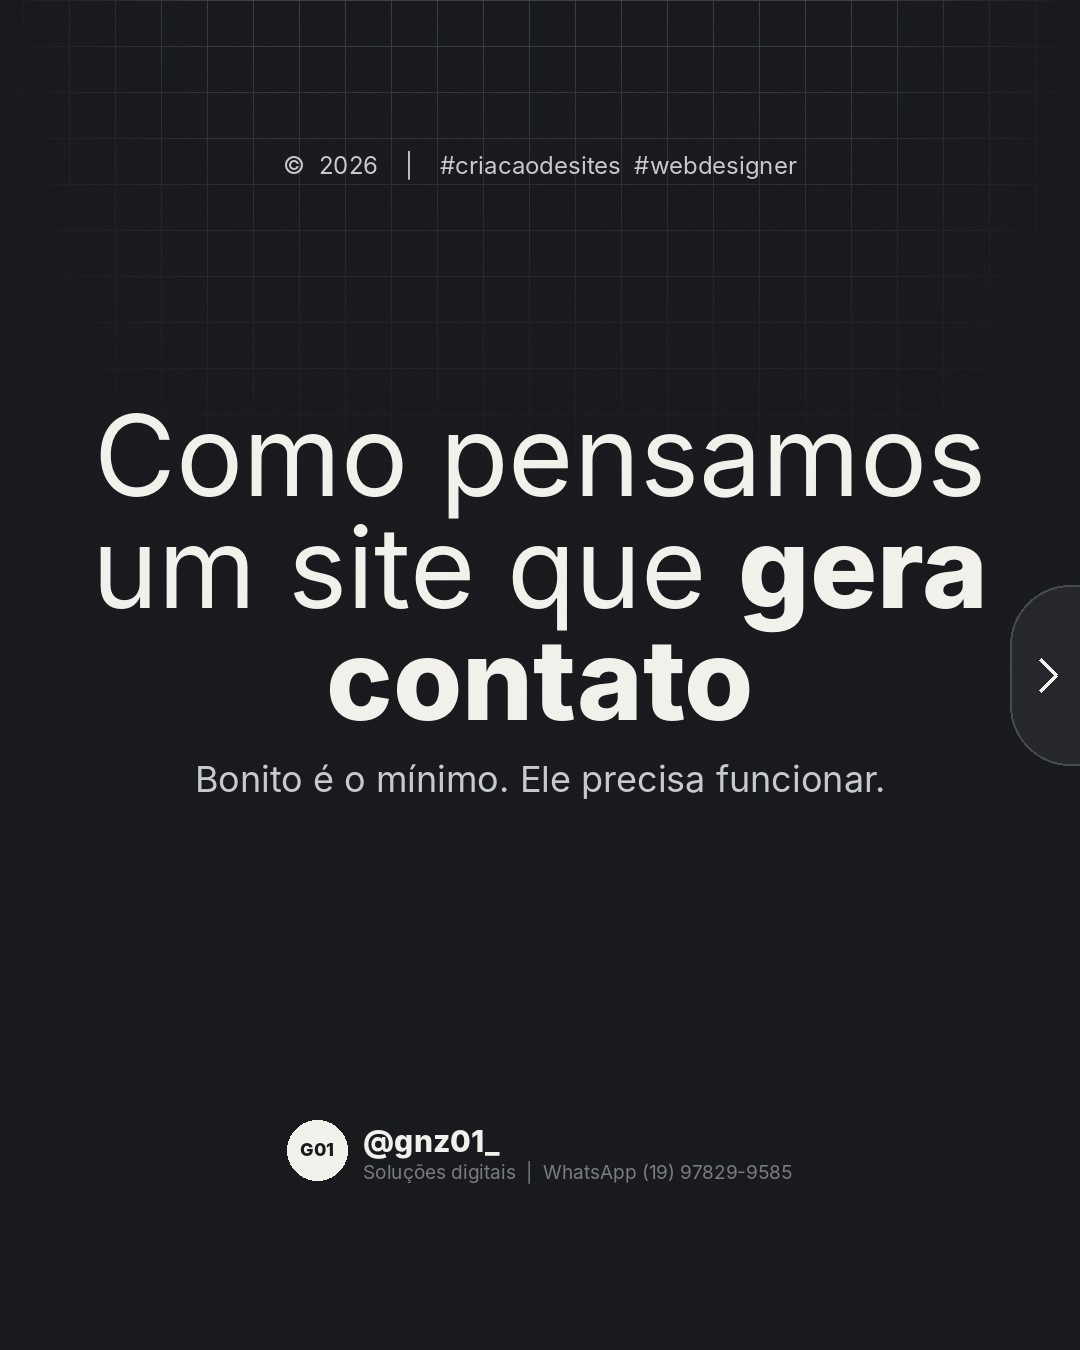
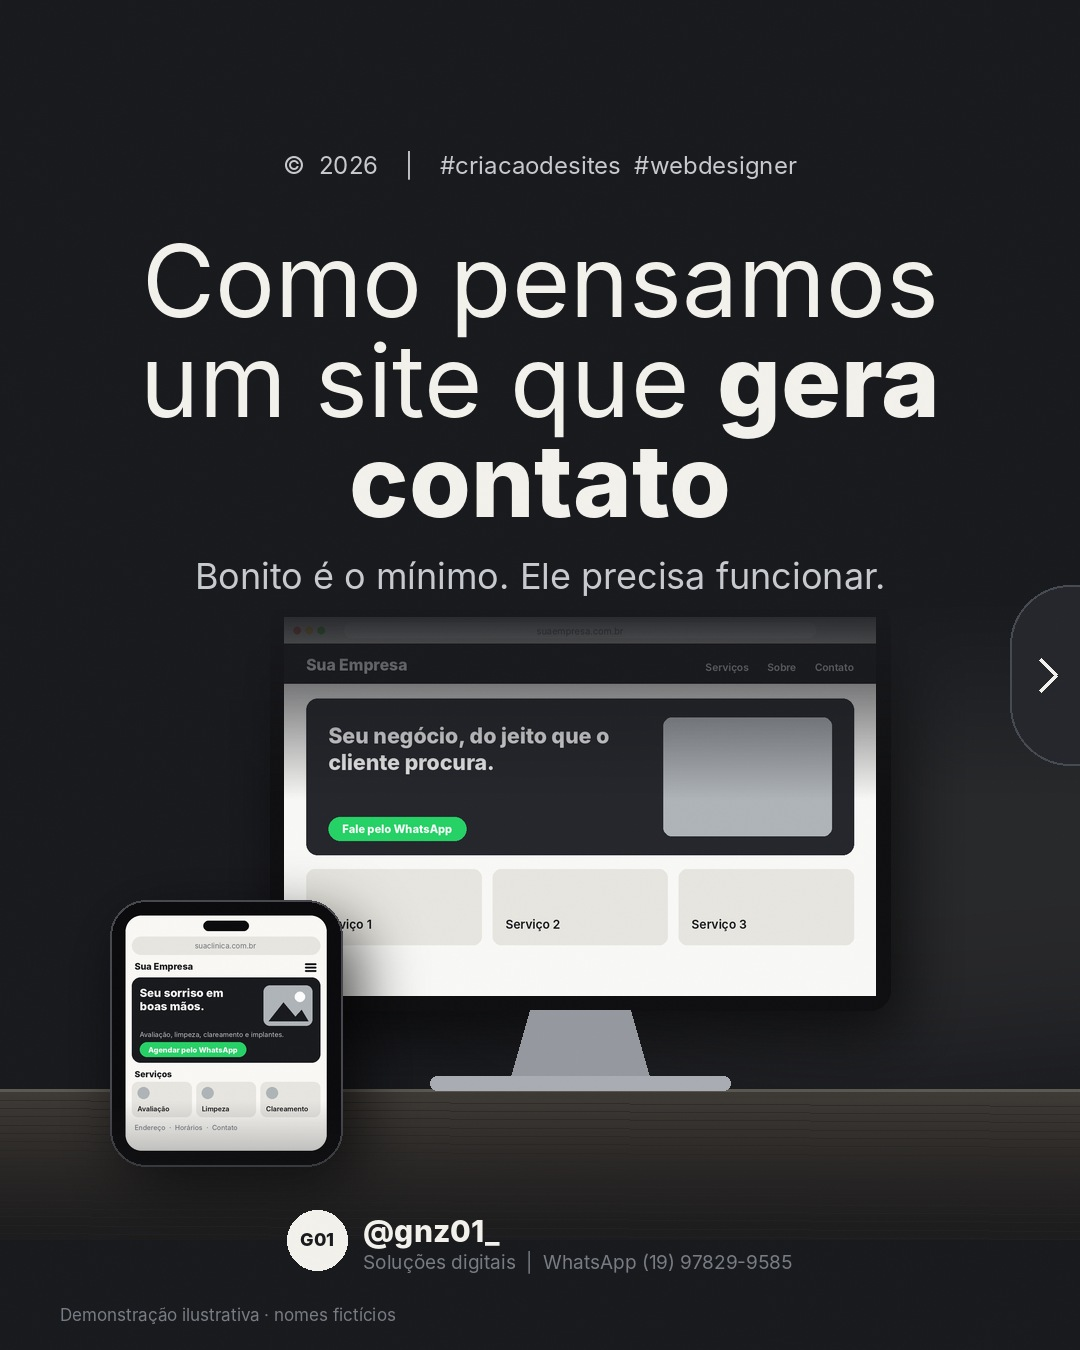
Capa de carrossel com cena própria quando não há foto
Claude-Session: https://claude.ai/code/session_01RYafPmAtYGRpHg7RarMXCA

diff --git a/src/sistema.py b/src/sistema.py
@@ -190,13 +190,25 @@ def _salvar(img, destino):
 # ------------------------------------------------------------------ lâminas
 def capa(p, cfg, destino, foto=None, credito=None):
     img = _fundo()
-    if foto and Path(foto).exists():
-        ft = ImageOps.fit(Image.open(foto).convert("RGB"), (W, H - 360), Image.LANCZOS, centering=(0.5, 0.25))
-        ft = Image.blend(ft, Image.new("RGB", ft.size, (10, 10, 12)), 0.25)
-        img.paste(ft, (0, 360))
+    cena = None
+    if not (foto and Path(foto).exists()) and cfg.get("_cena_capa", True):
+        try:
+            cena = cena_capa(p, cfg)
+        except Exception:
+            cena = None
+    if (foto and Path(foto).exists()) or cena is not None:
+        if cena is not None:
+            ft = cena
+            credito = "Demonstração ilustrativa · nomes fictícios"
+        else:
+            ft = ImageOps.fit(Image.open(foto).convert("RGB"), (W, H - 360), Image.LANCZOS, centering=(0.5, 0.25))
+            ft = Image.blend(ft, Image.new("RGB", ft.size, (10, 10, 12)), 0.25)
+        topo_f = 360 if cena is None else H - 640 - 110
+        img.paste(ft, (0, topo_f))
+        fim = 1060 if cena is None else H - 250
         g = Image.new("L", (1, H))
         for y in range(H):
-            t = max(1 - (y - 360) / 260 if y >= 360 else 1, (y - 1060) / 290, 0)
+            t = max(1 - (y - topo_f) / 200 if y >= topo_f else 1, (y - fim) / 200, 0)
             g.putpixel((0, y), int(255 * min(1, t)))
         img = Image.composite(Image.new("RGB", (W, H), FUNDO), img, g.resize((W, H)))
     d = ImageDraw.Draw(img)
@@ -207,18 +219,18 @@ def capa(p, cfg, destino, foto=None, credito=None):
     titulo = p.get("titulo_capa") or p["titulo"]
     larg = W - 160
     a = 0 if "**" in titulo else 2
-    t = _cabe(d, titulo, larg, 112, 60, 460, auto=a, entre=1.0)
-    y0 = 230 if foto else max(230, (H - misto(d, titulo, 0, 0, larg, t, auto=a, entre=1.0, medir=True)) / 2 - 120)
+    t = _cabe(d, titulo, larg, 112, 56, 460 if not (foto or cena is not None) else (300 if p.get("subtitulo") else 340), auto=a, entre=1.0)
+    y0 = 220 if (foto or cena is not None) else max(230, (H - misto(d, titulo, 0, 0, larg, t, auto=a, entre=1.0, medir=True)) / 2 - 120)
     y = misto(d, titulo, 80, y0, larg, t, alinhar="centro", auto=a, entre=1.0)
     if p.get("subtitulo"):
         misto(d, p["subtitulo"], 80, y + 34, larg, 36, alinhar="centro", cor=(200, 203, 208))
     # aba lateral com seta (convite para arrastar)
     d.rounded_rectangle([W - 70, H / 2 - 90, W + 60, H / 2 + 90], radius=60, fill=(36, 38, 43), outline=(70, 74, 82), width=2)
     d.line([(W - 40, H / 2 - 16), (W - 24, H / 2), (W - 40, H / 2 + 16)], fill=TEXTO, width=5)
-    _selo(img, 0, H - 230, cfg, centro=True)
+    _selo(img, 0, H - 230 if cena is None else H - 140, cfg, centro=True)
     if credito:
         d = ImageDraw.Draw(img)
-        d.text((60, H - 56), "Foto: " + credito, font=fonte("regular", 17), fill=SUAVE)
+        d.text((60, H - 46), credito if cena is not None else "Foto: " + credito, font=fonte("regular", 17), fill=SUAVE)
     return _salvar(img, destino)
 
 
@@ -294,6 +306,29 @@ def foto_capa(p):
     if not cred:
         return None, None  # sem crédito registrado não publica
     return str(f), cred if isinstance(cred, str) else cred.get("credito") or cred.get("texto")
+
+
+TIPO_TEMA = {"cardapio": "cardapio", "agenda": "agenda", "catalogo": "catalogo"}
+NOME_TIPO = {"cardapio": "Seu Restaurante", "agenda": "Seu Salão", "catalogo": "Sua Loja", "site": "Sua Empresa"}
+
+
+def cena_capa(p, cfg, tam=(W, 640)):
+    """Capa sem foto: cena criada no código (balcão, monitor, celular e tablet com a demonstração do tema).
+    Sem pessoas e sem rostos gerados."""
+    from src import showcase as sc
+    w, h = tam
+    tipo = TIPO_TEMA.get(p.get("tema", ""), "site")
+    v = dict(p.get("vitrine_capa") or ({"tipo": tipo, "marca": NOME_TIPO[tipo]} if tipo == "site"
+                                       else {"tipo": tipo, "nome": NOME_TIPO[tipo]}))
+    yb = h - 150
+    img = sc._fundo_balcao(w, h, yb)
+    larg = 620
+    img = sc._monitor(img, (w - larg) // 2 + 40, yb - 100 - int(larg * 0.625), larg, sc.tela_desktop(v))
+    if tipo in ("cardapio", "catalogo"):
+        img = sc._aparelho(img, sc.tela_tablet(v), w - 290, yb - 250, 200, raio=26, borda=12)
+    cel = sc.tela_celular(cfg, v).convert("RGB")
+    img = sc._aparelho(img, cel, 110, yb - 190, 210, raio=36, borda=11)
+    return img
 
 
 def carrossel(p, pasta, cfg, foto=None, credito=None):

diff --git a/conteudo/diretrizes-gnz01.md b/conteudo/diretrizes-gnz01.md
@@ -117,6 +117,6 @@ Pensar como diretor de marketing de agência. Nada genérico. Não copiar concor
 ## 20. Design system "GNZ01 Carrossel" (src/sistema.py)
 - Todos os carrosséis comuns usam este sistema. Os de personalidade seguem "Os ensinamentos de" (seção 17).
 - Fundo grafite #18191D com grade quadriculada sumindo do topo; texto off-white; destaque em Inter ExtraBold misturado com Inter Regular na mesma frase; rodapé "PAG | 01 02 03 ... | GNZ01" com a página atual em prata.
-- Capa: "© ano | #tag #tag", título gigante centralizado com trecho em negrito, subtítulo, aba lateral com seta e selo @gnz01_. Com foto licenciada, a foto fica abaixo do título, com crédito.
+- Capa: "© ano | #tag #tag", título gigante centralizado com trecho em negrito, subtítulo, aba lateral com seta e selo @gnz01_. Sempre com imagem: foto profissional licenciada do campo "cenario" (com crédito) ou, se não houver, cena criada no código com monitor, celular e tablet mostrando o produto do tema (sem pessoas, "Demonstração ilustrativa").
 - Lâminas em rodízio: abertura (frase grande + apoio), parágrafos, duas colunas (pergunta à esquerda, resposta à direita), centralizada. Última: CTA centralizado + pílula com Instagram, WhatsApp e monograma.
 - Ao escrever conteúdo, marque o destaque com **asteriscos** (ex.: "Seu cliente **agenda sozinho**"). Sem marcação, o sistema destaca o fim da frase. Campo opcional "layout" por slide força a lâmina.
